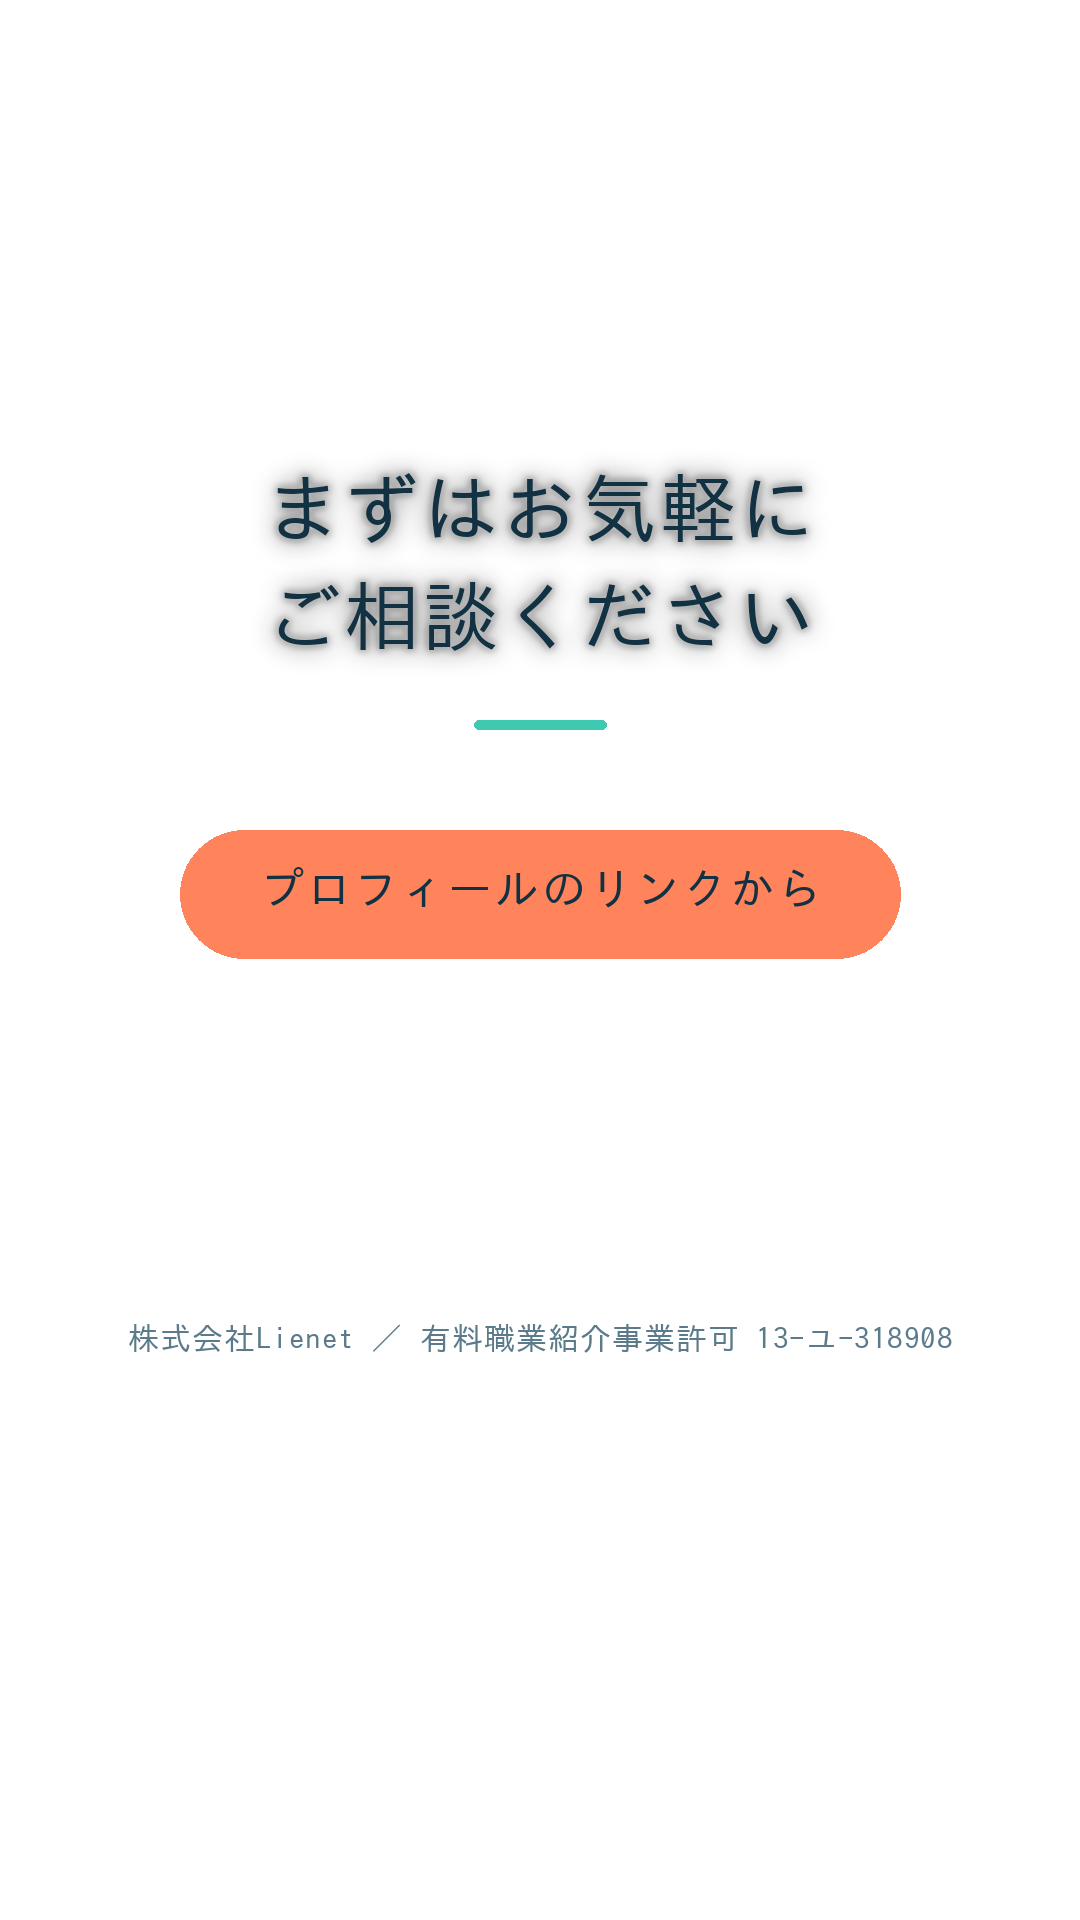
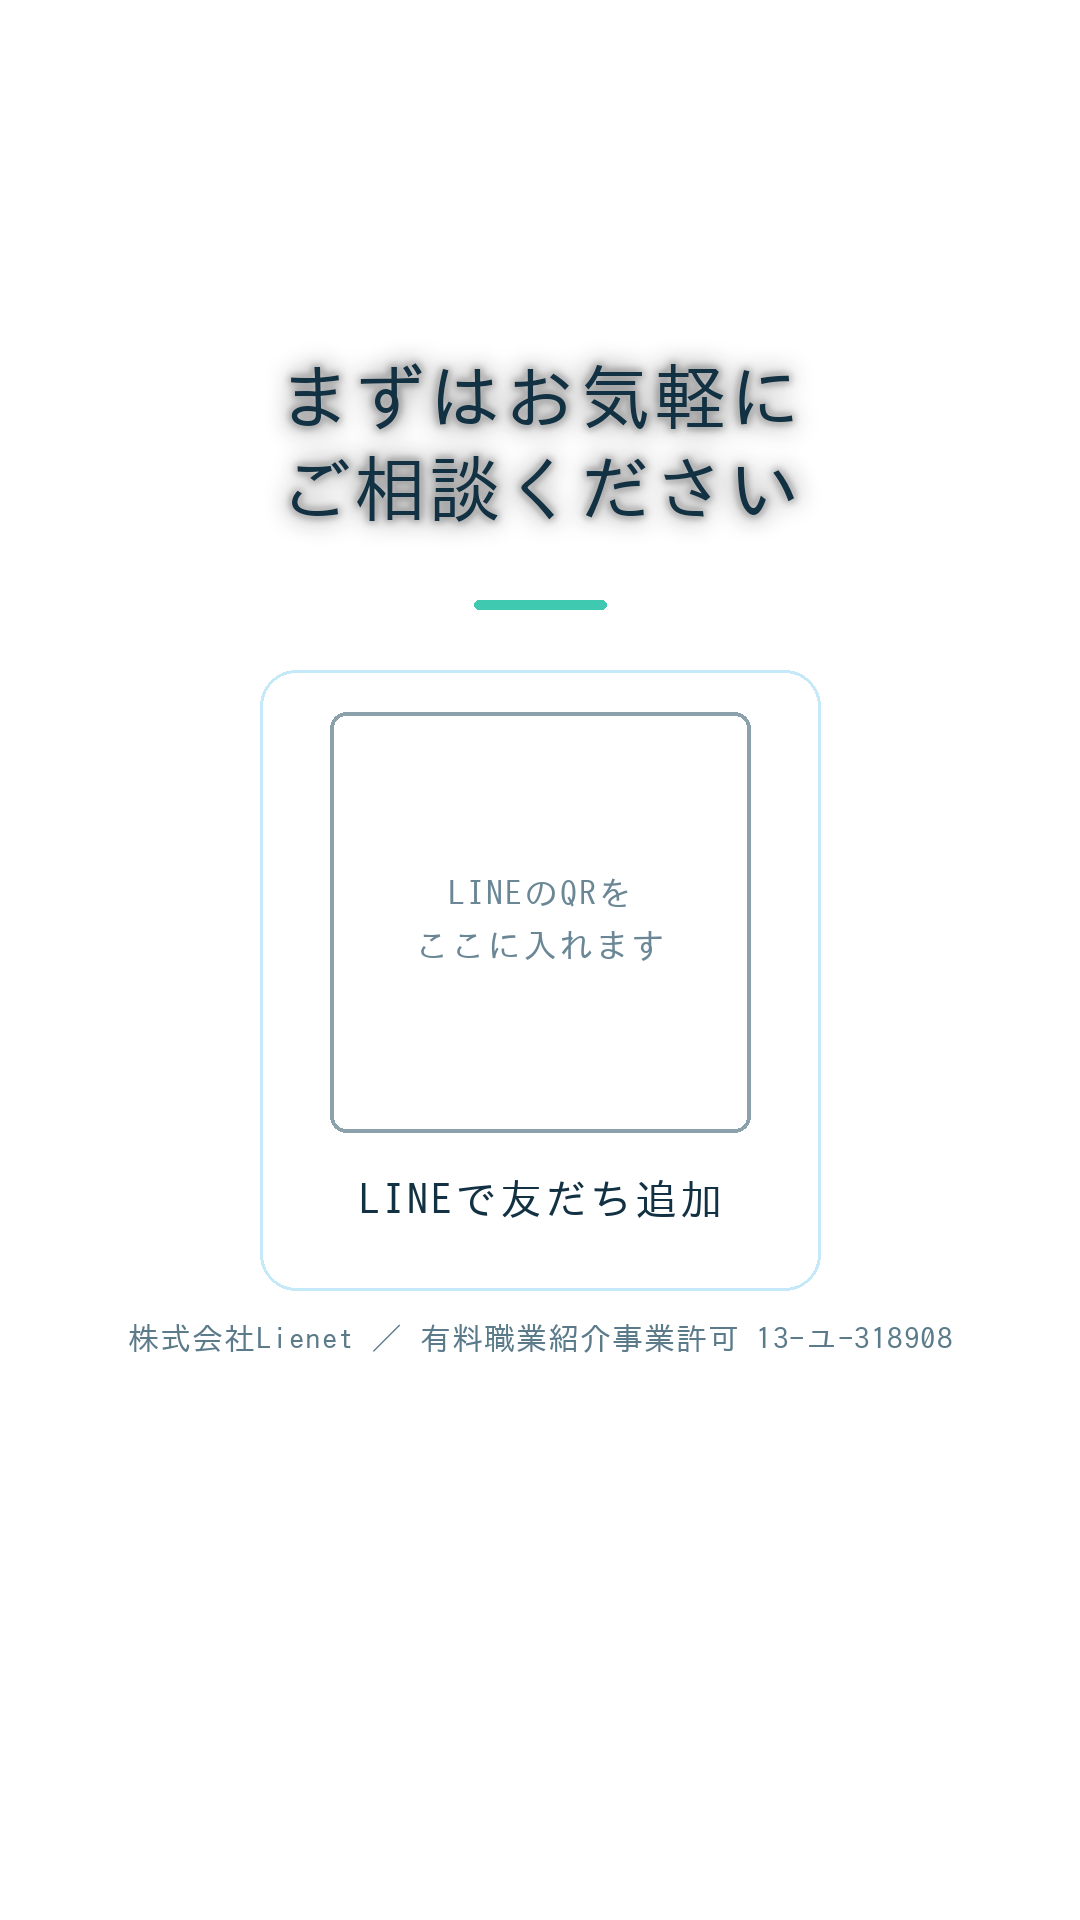
Make room for the LINE QR on the reel's closing card
The closing card now ends on a white LINE card — a 420x420 QR over a
"LINEで友だち追加" label — instead of the coral button, with the headline and
rule moved up to make room. Everything still sits inside Instagram's safe area
(card bottom y=1290, licence line y=1353, limit 1500).

The QR itself comes from one of two sources, neither of which is in the repo yet:
LINE_URL=... generates it (sharpest, and the size and error correction are then
under our control), or a qr_line.png placed beside the scripts is used as-is.
With neither set the card draws an outlined placeholder, which is what
ov_end.png currently holds; lienet_reel_15s.mp4 is still the previous
coral-button cut until a QR source exists.

The README spells out that a QR must never be traced from a screenshot — the bit
matrix has to be exact or the code quietly points somewhere else.

Claude-Session: https://claude.ai/code/session_01EQKstJEMHDfGmFnbsa1u38

diff --git a/media/lienet-shukyaku/make_reel_overlays.py b/media/lienet-shukyaku/make_reel_overlays.py
@@ -4,8 +4,17 @@
 行動喚起だけコーラルのボタンにする。
 文字はすべて Instagram リールの安全域（上250 / 下420 / 左右60px の内側）に収める。
 """
+import os
 from PIL import Image, ImageDraw, ImageFont, ImageFilter
 from palette import PAPER, SKYL, SKY, MINT, CORAL, INK, MUTED
+
+# LINEのQRの入れ方（どちらか）
+#   LINE_URL=https://lin.ee/xxxxxxx python3 make_reel_overlays.py   … URLからQRを生成する（推奨・最も鮮明）
+#   qr_line.png をこのフォルダに置いて実行                          … 用意済みのQR画像をそのまま使う
+# どちらも無い場合は、QRを貼る枠だけを描く。
+LINE_URL  = os.environ.get("LINE_URL", "").strip()
+QR_FILE   = "qr_line.png"
+QR_SIZE   = 420          # スマホで読み取れる大きさ
 
 W, H = 1080, 1920
 FONT = "/usr/share/fonts/truetype/fonts-japanese-gothic.ttf"
@@ -23,6 +32,7 @@ TEXTS = {
     "end_head":  "まずはお気軽に",
     "end_head2": "ご相談ください",
     "end_cta":   "プロフィールのリンクから",
+    "end_label": "LINEで友だち追加",
     "licence":   "株式会社Lienet ／ 有料職業紹介事業許可 13-ユ-318908",
 }
 
@@ -80,19 +90,51 @@ def step_card(i, t):
     centered(img, 720, note, 34, MUTED, sp=1)
     img.save(f"ov_step{i+1}.png"); print(f"ov_step{i+1}.png")
 
+def qr_image():
+    """QRを用意する。URLがあれば生成し、無ければ手持ちの画像、どちらも無ければNone。"""
+    if LINE_URL:
+        import qrcode
+        q = qrcode.QRCode(error_correction=qrcode.constants.ERROR_CORRECT_M, box_size=10, border=2)
+        q.add_data(LINE_URL); q.make(fit=True)
+        im = q.make_image(fill_color="#06C755", back_color="white").convert("RGBA")
+        print(f"  QRを生成: {LINE_URL}")
+        return im.resize((QR_SIZE, QR_SIZE), Image.NEAREST)   # 最近傍でセルの角を保つ
+    if os.path.exists(QR_FILE):
+        print(f"  QR画像を使用: {QR_FILE}")
+        return Image.open(QR_FILE).convert("RGBA").resize((QR_SIZE, QR_SIZE), Image.LANCZOS)
+    return None
+
 def end_card(t):
     img = Image.new("RGBA", (W, H), (0,0,0,0))
-    centered(img, 470, t["end_head"],  76, INK, sp=3, glow=True)
-    centered(img, 578, t["end_head2"], 76, INK, sp=3, glow=True)
-    rule(img, 720)
-    pill(img, 830, 128, 720, CORAL)
+    centered(img, 360, t["end_head"],  72, INK, sp=3, glow=True)
+    centered(img, 452, t["end_head2"], 72, INK, sp=3, glow=True)
+    rule(img, 600)
+
+    # LINEカード（白地に角丸、QRとラベル）
+    CW, CH, CY = 560, 620, 670
+    cx0 = (W - CW)/2
     d = ImageDraw.Draw(img)
-    fc = f(44)
-    draw_sp(d, (W - tw(d, t["end_cta"], fc, 3))/2, 866, t["end_cta"], fc, tuple(INK)+(255,), 3)
+    d.rounded_rectangle([cx0, CY, cx0+CW, CY+CH], radius=36, fill=(255,255,255,250),
+                        outline=tuple(SKYL)+(255,), width=3)
+    qr = qr_image()
+    if qr is not None:
+        img.alpha_composite(qr, (int((W-QR_SIZE)/2), CY+42))
+    else:
+        # QRが未設定のときは、貼る位置が分かる枠を描く
+        qx0, qy0 = (W-QR_SIZE)/2, CY+42
+        d.rounded_rectangle([qx0, qy0, qx0+QR_SIZE, qy0+QR_SIZE], radius=16,
+                            outline=tuple(MUTED)+(180,), width=4)
+        fh = f(34)
+        for k, line in enumerate(("LINEのQRを", "ここに入れます")):
+            draw_sp(d, (W - tw(d, line, fh, 2))/2, qy0+QR_SIZE/2-46+k*52, line, fh,
+                    tuple(MUTED)+(230,), 2)
+    fl = f(42)
+    draw_sp(d, (W - tw(d, t["end_label"], fl, 3))/2, CY+508, t["end_label"], fl, tuple(INK)+(255,), 3)
+
     # 許可番号は法定の表示なので、読める大きさとコントラストを確保する
     fll = f(31)
     draw_sp(d, (W - tw(d, t["licence"], fll, 1))/2, 1322, t["licence"], fll, tuple(MUTED)+(255,), 1)
-    img.save("ov_end.png"); print("ov_end.png  最下端 y=", 1322+31)
+    img.save("ov_end.png"); print("ov_end.png  カード下端 y=", CY+CH, " 最下端 y=", 1322+31)
 
 if __name__ == "__main__":
     title_card(TEXTS)
